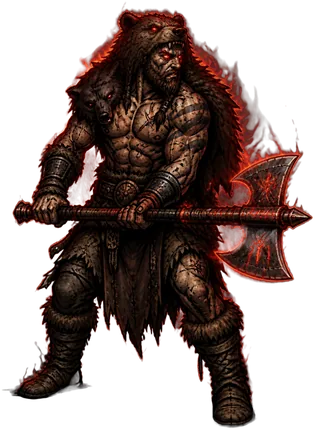
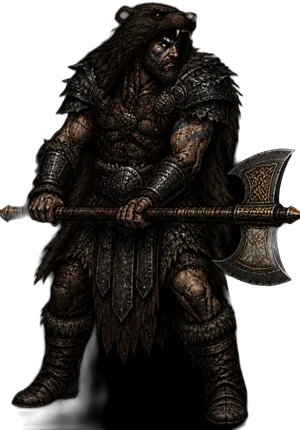
Berserker : armure palier V repeinte
Claude-Session: https://claude.ai/code/session_01XuxscubMSQPeew8BrSfQGu

diff --git a/index.html b/index.html
@@ -211,7 +211,7 @@ p{margin:6px 0;line-height:1.45}
 <div id="boot"><div class="bootin"><img src="assets/ui_emblem.webp" alt="" onerror="this.remove()"><h1>Couronne de Cendres</h1><div class="bootbar"><i></i></div><div class="boottxt">Les braises s'allument…</div><button class="btn ghost sm" id="bootskip" style="display:none">Continuer sans attendre</button></div></div>
 <div id="toasts" aria-live="polite"></div>
 <script>window.CC_SW = 1;</script><script>
-window.ART_LIST=["bg_abime","bg_bastion","bg_bastion2","bg_bourg","bg_catacombes","bg_citadelle","bg_foret","bg_marais","bg_terres","bg_titre","bld_academie","bld_chapelle","bld_fonderie","bld_forge","bld_menagerie","bld_porte","bld_taverne","hero_arbaletriere_chasseresse","hero_arbaletriere_t1","hero_arbaletriere_t2","hero_arbaletriere_t3","hero_arbaletriere_t4","hero_arbaletriere_t5","hero_arbaletriere_tireuse_elite","hero_berserker_chef_guerre","hero_berserker_ecorcheur","hero_berserker_t1","hero_berserker_t2","hero_berserker_t3","hero_berserker_t4","hero_berserker_t5","hero_chasseur_sorcieres_purificateur","hero_chasseur_sorcieres_t1","hero_chasseur_sorcieres_t2","hero_chasseur_sorcieres_t3","hero_chasseur_sorcieres_t4","hero_chasseur_sorcieres_t5","hero_chasseur_sorcieres_traqueur","hero_exorciste_confesseur","hero_exorciste_penitent","hero_exorciste_t1","hero_exorciste_t2","hero_exorciste_t3","hero_exorciste_t4","hero_exorciste_t5","hero_gardien_runes_forge_tonnerre","hero_gardien_runes_t1","hero_gardien_runes_t2","hero_gardien_runes_t3","hero_gardien_runes_t4","hero_gardien_runes_t5","hero_gardien_runes_thane_pierre","hero_hallebardier_garde_roi","hero_hallebardier_lansquenet","hero_hallebardier_t1","hero_hallebardier_t2","hero_hallebardier_t3","hero_hallebardier_t4","hero_hallebardier_t5","hero_medecin_peste_apothicaire","hero_medecin_peste_chirurgien","hero_medecin_peste_t1","hero_medecin_peste_t2","hero_medecin_peste_t3","hero_medecin_peste_t4","hero_medecin_peste_t5","hero_menestrel_chantre","hero_menestrel_heraut","hero_menestrel_t1","hero_menestrel_t2","hero_menestrel_t3","hero_menestrel_t4","hero_menestrel_t5","hero_necromancien_liche","hero_necromancien_maitre_tombes","hero_necromancien_t1","hero_necromancien_t2","hero_necromancien_t3","hero_necromancien_t4","hero_necromancien_t5","hero_ombre_assassin","hero_ombre_ombre_sang","hero_ombre_t1","hero_ombre_t2","hero_ombre_t3","hero_ombre_t4","hero_ombre_t5","hero_pretresse_martyre","hero_pretresse_sainte","hero_pretresse_t1","hero_pretresse_t2","hero_pretresse_t3","hero_pretresse_t4","hero_pretresse_t5","hero_pyromancien_archimage","hero_pyromancien_demoniste","hero_pyromancien_t1","hero_pyromancien_t2","hero_pyromancien_t3","hero_pyromancien_t4","hero_pyromancien_t5","hero_revenant_seigneur_sang","hero_revenant_spectre","hero_revenant_t1","hero_revenant_t2","hero_revenant_t3","hero_revenant_t4","hero_revenant_t5","hero_sorciere_druidesse","hero_sorciere_sorciere_noire","hero_sorciere_t1","hero_sorciere_t2","hero_sorciere_t3","hero_sorciere_t4","hero_sorciere_t5","hero_templier_bastion","hero_templier_inquisiteur","hero_templier_t1","hero_templier_t2","hero_templier_t3","hero_templier_t4","hero_templier_t5","map_boss","map_camp","map_combat","map_elite","map_event","map_shop","map_treasure","mon_abbe","mon_alpha","mon_araignee","mon_archer","mon_archer_os","mon_archonte_cendres","mon_boucher","mon_bourreau","mon_brigand","mon_cardinal","mon_charognard","mon_chevalier_dechu","mon_chevalier_os","mon_chevaucheur_calcine","mon_chien_cendre","mon_colosse_braise","mon_crapaud","mon_cultiste","mon_devoreur_lumiere","mon_diablotin","mon_docteur","mon_dryade","mon_follet","mon_gargouille","mon_golem","mon_goule","mon_hallebardier_os","mon_horreur","mon_hydre","mon_inquisiteur","mon_liche","mon_loup","mon_matrone_os","mon_mere_noyes","mon_mere_ronces","mon_moine_flagellant","mon_necrophage","mon_noye","mon_oeil","mon_ogre","mon_pecheur","mon_pendu","mon_penitent_ardent","mon_pestifere","mon_pretre_suie","mon_prieur","mon_profond","mon_rat","mon_reine_sabbat","mon_roi","mon_sangsue","mon_sans_nom","mon_sans_visage","mon_sentinelle_obsidienne","mon_sorciere_marais","mon_spectre","mon_squelette","mon_thuriferaire","pet_araignee","pet_araignee_evo","pet_belette","pet_cerf","pet_cerf_evo","pet_chat_noir","pet_chat_noir_evo","pet_chauve_souris","pet_chauve_souris_evo","pet_chouette","pet_chouette_evo","pet_corbeau","pet_corbeau_evo","pet_crapaud","pet_crapaud_evo","pet_drake","pet_drake_evo","pet_feu_follet","pet_feu_follet_evo","pet_gargouille","pet_gargouille_evo","pet_griffon","pet_griffon_evo","pet_loup","pet_loup_evo","pet_molosse","pet_molosse_evo","pet_ours","pet_ours_evo","pet_renard","pet_renard_evo","pet_salamandre","pet_salamandre_evo","pet_sanglier","pet_sanglier_evo","pet_vipere","pet_vipere_evo","tr_amulette_sel","tr_bague_fer","tr_cape_brume","tr_chapelet","tr_cloche_morte","tr_coeur_braise","tr_coeur_roi","tr_couronne_epines","tr_crane_saint","tr_croc_vampire","tr_dent_loup","tr_ecu_brise","tr_fiole_sang","tr_fragment_couronne","tr_gant_bourreau","tr_griffe_ombre","tr_herbe_rare","tr_oeil_abime","tr_oeil_verre","tr_phylactere","tr_pierre_ame","tr_plume_corbeau","tr_relique_aube","tr_sablier","tr_sceau_rouge","ui_aim","ui_amulet","ui_anvil","ui_armor","ui_axe","ui_back","ui_bag","ui_banner","ui_bark","ui_bell","ui_bird","ui_bless","ui_blood","ui_bolt","ui_bones","ui_book","ui_boom","ui_camp","ui_castle","ui_chain","ui_chapel","ui_charge","ui_chest","ui_claw","ui_cleanse","ui_cloak","ui_coin","ui_crown","ui_cup","ui_curse","ui_dagger","ui_daily","ui_dice","ui_drain","ui_ember","ui_emblem","ui_essence","ui_eye","ui_fang","ui_fear","ui_feather","ui_fire","ui_flames","ui_flare","ui_flask","ui_flee","ui_frost","ui_furnace","ui_gear","ui_gem","ui_ghost","ui_glove","ui_guard","ui_hammer","ui_hand","ui_heal","ui_heart","ui_helm","ui_herb","ui_horn","ui_hourglass","ui_iron","ui_knives","ui_link","ui_lock","ui_lute","ui_mace","ui_map","ui_mark","ui_mask","ui_meteor","ui_moon","ui_music","ui_note","ui_pact","ui_paw","ui_pawn","ui_pierce","ui_pillar","ui_potion","ui_quest","ui_rage","ui_rain","ui_ray","ui_ring","ui_riposte","ui_root","ui_rosary","ui_run","ui_sanct","ui_scroll","ui_scythe","ui_seal","ui_shard","ui_shield","ui_shroud","ui_skull","ui_skullc","ui_smoke","ui_sound","ui_star","ui_stun","ui_sun","ui_sword","ui_swords","ui_tavern","ui_thorn","ui_torch","ui_trap","ui_tree","ui_trophy","ui_vial","ui_wall","ui_weapon","ui_whirl","ui_wind","wpn_arbalete","wpn_baton","wpn_croix","wpn_dagues","wpn_encensoir","wpn_espadon","wpn_faucille","wpn_faux","wpn_grimoire","wpn_hache","wpn_hallebarde","wpn_luth","wpn_marteau","wpn_masse","wpn_rapiere"];window.ART_META={"hero_arbaletriere_chasseresse": 0.019,"hero_arbaletriere_t1": 0.009,"hero_arbaletriere_t2": 0.009,"hero_arbaletriere_t3": 0.007,"hero_arbaletriere_t4": 0.007,"hero_arbaletriere_t5": 0.009,"hero_arbaletriere_tireuse_elite": 0.007,"hero_berserker_chef_guerre": 0.03,"hero_berserker_ecorcheur": 0.007,"hero_berserker_t1": 0.014,"hero_berserker_t2": 0.009,"hero_berserker_t3": 0.009,"hero_berserker_t4": 0.007,"hero_berserker_t5": 0.021,"hero_chasseur_sorcieres_purificateur": 0.056,"hero_chasseur_sorcieres_t1": 0.007,"hero_chasseur_sorcieres_t2": 0.009,"hero_chasseur_sorcieres_t3": 0.007,"hero_chasseur_sorcieres_t4": 0.007,"hero_chasseur_sorcieres_t5": 0.012,"hero_chasseur_sorcieres_traqueur": 0.007,"hero_exorciste_confesseur": 0.005,"hero_exorciste_penitent": 0.028,"hero_exorciste_t1": 0.04,"hero_exorciste_t2": 0.065,"hero_exorciste_t3": 0.074,"hero_exorciste_t4": 0.072,"hero_exorciste_t5": 0.03,"hero_gardien_runes_forge_tonnerre": 0.023,"hero_gardien_runes_t1": 0.014,"hero_gardien_runes_t2": 0.012,"hero_gardien_runes_t3": 0.014,"hero_gardien_runes_t4": 0.014,"hero_gardien_runes_t5": 0.035,"hero_gardien_runes_thane_pierre": 0.014,"hero_hallebardier_garde_roi": 0.016,"hero_hallebardier_lansquenet": 0.028,"hero_hallebardier_t1": 0.012,"hero_hallebardier_t2": 0.012,"hero_hallebardier_t3": 0.012,"hero_hallebardier_t4": 0.021,"hero_hallebardier_t5": 0.014,"hero_medecin_peste_apothicaire": 0.005,"hero_medecin_peste_chirurgien": 0.005,"hero_medecin_peste_t1": 0.007,"hero_medecin_peste_t2": 0.005,"hero_medecin_peste_t3": 0.005,"hero_medecin_peste_t4": 0.005,"hero_medecin_peste_t5": 0.005,"hero_menestrel_chantre": 0.007,"hero_menestrel_heraut": 0.13,"hero_menestrel_t1": 0.007,"hero_menestrel_t2": 0.005,"hero_menestrel_t3": 0.007,"hero_menestrel_t4": 0.012,"hero_menestrel_t5": 0.007,"hero_necromancien_liche": 0.014,"hero_necromancien_maitre_tombes": 0.079,"hero_necromancien_t1": 0.009,"hero_necromancien_t2": 0.016,"hero_necromancien_t3": 0.016,"hero_necromancien_t4": 0.016,"hero_necromancien_t5": 0.012,"hero_ombre_assassin": 0.007,"hero_ombre_ombre_sang": 0.009,"hero_ombre_t1": 0.009,"hero_ombre_t2": 0.009,"hero_ombre_t3": 0.009,"hero_ombre_t4": 0.009,"hero_ombre_t5": 0.014,"hero_pretresse_martyre": 0.102,"hero_pretresse_sainte": 0.07,"hero_pretresse_t1": 0.079,"hero_pretresse_t2": 0.1,"hero_pretresse_t3": 0.121,"hero_pretresse_t4": 0.091,"hero_pretresse_t5": 0.06,"hero_pyromancien_archimage": 0.007,"hero_pyromancien_demoniste": 0.051,"hero_pyromancien_t1": 0.009,"hero_pyromancien_t2": 0.007,"hero_pyromancien_t3": 0.007,"hero_pyromancien_t4": 0.007,"hero_pyromancien_t5": 0.026,"hero_revenant_seigneur_sang": 0.151,"hero_revenant_spectre": 0.114,"hero_revenant_t1": 0.109,"hero_revenant_t2": 0.151,"hero_revenant_t3": 0.156,"hero_revenant_t4": 0.149,"hero_revenant_t5": 0.095,"hero_sorciere_druidesse": 0.051,"hero_sorciere_sorciere_noire": 0.028,"hero_sorciere_t1": 0.007,"hero_sorciere_t2": 0.014,"hero_sorciere_t3": 0.012,"hero_sorciere_t4": 0.009,"hero_sorciere_t5": 0.019,"hero_templier_bastion": 0.021,"hero_templier_inquisiteur": 0.007,"hero_templier_t1": 0.007,"hero_templier_t2": 0.007,"hero_templier_t3": 0.005,"hero_templier_t4": 0.026,"hero_templier_t5": 0.009};window.SFX_LIST=["amb_abime","amb_bastion","amb_bourg","amb_catacombes","amb_citadelle","amb_foret","amb_marais","fx_bell","fx_coin","fx_crit","fx_dark","fx_die","fx_door","fx_fire","fx_forge","fx_heal","fx_heavy","fx_hit","fx_holy","fx_miss","fx_open","fx_shoot","fx_slash","fx_step"];window.ART_FLIP=["mon_archer_os","mon_moine_flagellant","mon_spectre","hero_ombre_assassin","hero_ombre_ombre_sang","mon_cardinal"];
+window.ART_LIST=["bg_abime","bg_bastion","bg_bastion2","bg_bourg","bg_catacombes","bg_citadelle","bg_foret","bg_marais","bg_terres","bg_titre","bld_academie","bld_chapelle","bld_fonderie","bld_forge","bld_menagerie","bld_porte","bld_taverne","hero_arbaletriere_chasseresse","hero_arbaletriere_t1","hero_arbaletriere_t2","hero_arbaletriere_t3","hero_arbaletriere_t4","hero_arbaletriere_t5","hero_arbaletriere_tireuse_elite","hero_berserker_chef_guerre","hero_berserker_ecorcheur","hero_berserker_t1","hero_berserker_t2","hero_berserker_t3","hero_berserker_t4","hero_berserker_t5","hero_chasseur_sorcieres_purificateur","hero_chasseur_sorcieres_t1","hero_chasseur_sorcieres_t2","hero_chasseur_sorcieres_t3","hero_chasseur_sorcieres_t4","hero_chasseur_sorcieres_t5","hero_chasseur_sorcieres_traqueur","hero_exorciste_confesseur","hero_exorciste_penitent","hero_exorciste_t1","hero_exorciste_t2","hero_exorciste_t3","hero_exorciste_t4","hero_exorciste_t5","hero_gardien_runes_forge_tonnerre","hero_gardien_runes_t1","hero_gardien_runes_t2","hero_gardien_runes_t3","hero_gardien_runes_t4","hero_gardien_runes_t5","hero_gardien_runes_thane_pierre","hero_hallebardier_garde_roi","hero_hallebardier_lansquenet","hero_hallebardier_t1","hero_hallebardier_t2","hero_hallebardier_t3","hero_hallebardier_t4","hero_hallebardier_t5","hero_medecin_peste_apothicaire","hero_medecin_peste_chirurgien","hero_medecin_peste_t1","hero_medecin_peste_t2","hero_medecin_peste_t3","hero_medecin_peste_t4","hero_medecin_peste_t5","hero_menestrel_chantre","hero_menestrel_heraut","hero_menestrel_t1","hero_menestrel_t2","hero_menestrel_t3","hero_menestrel_t4","hero_menestrel_t5","hero_necromancien_liche","hero_necromancien_maitre_tombes","hero_necromancien_t1","hero_necromancien_t2","hero_necromancien_t3","hero_necromancien_t4","hero_necromancien_t5","hero_ombre_assassin","hero_ombre_ombre_sang","hero_ombre_t1","hero_ombre_t2","hero_ombre_t3","hero_ombre_t4","hero_ombre_t5","hero_pretresse_martyre","hero_pretresse_sainte","hero_pretresse_t1","hero_pretresse_t2","hero_pretresse_t3","hero_pretresse_t4","hero_pretresse_t5","hero_pyromancien_archimage","hero_pyromancien_demoniste","hero_pyromancien_t1","hero_pyromancien_t2","hero_pyromancien_t3","hero_pyromancien_t4","hero_pyromancien_t5","hero_revenant_seigneur_sang","hero_revenant_spectre","hero_revenant_t1","hero_revenant_t2","hero_revenant_t3","hero_revenant_t4","hero_revenant_t5","hero_sorciere_druidesse","hero_sorciere_sorciere_noire","hero_sorciere_t1","hero_sorciere_t2","hero_sorciere_t3","hero_sorciere_t4","hero_sorciere_t5","hero_templier_bastion","hero_templier_inquisiteur","hero_templier_t1","hero_templier_t2","hero_templier_t3","hero_templier_t4","hero_templier_t5","map_boss","map_camp","map_combat","map_elite","map_event","map_shop","map_treasure","mon_abbe","mon_alpha","mon_araignee","mon_archer","mon_archer_os","mon_archonte_cendres","mon_boucher","mon_bourreau","mon_brigand","mon_cardinal","mon_charognard","mon_chevalier_dechu","mon_chevalier_os","mon_chevaucheur_calcine","mon_chien_cendre","mon_colosse_braise","mon_crapaud","mon_cultiste","mon_devoreur_lumiere","mon_diablotin","mon_docteur","mon_dryade","mon_follet","mon_gargouille","mon_golem","mon_goule","mon_hallebardier_os","mon_horreur","mon_hydre","mon_inquisiteur","mon_liche","mon_loup","mon_matrone_os","mon_mere_noyes","mon_mere_ronces","mon_moine_flagellant","mon_necrophage","mon_noye","mon_oeil","mon_ogre","mon_pecheur","mon_pendu","mon_penitent_ardent","mon_pestifere","mon_pretre_suie","mon_prieur","mon_profond","mon_rat","mon_reine_sabbat","mon_roi","mon_sangsue","mon_sans_nom","mon_sans_visage","mon_sentinelle_obsidienne","mon_sorciere_marais","mon_spectre","mon_squelette","mon_thuriferaire","pet_araignee","pet_araignee_evo","pet_belette","pet_cerf","pet_cerf_evo","pet_chat_noir","pet_chat_noir_evo","pet_chauve_souris","pet_chauve_souris_evo","pet_chouette","pet_chouette_evo","pet_corbeau","pet_corbeau_evo","pet_crapaud","pet_crapaud_evo","pet_drake","pet_drake_evo","pet_feu_follet","pet_feu_follet_evo","pet_gargouille","pet_gargouille_evo","pet_griffon","pet_griffon_evo","pet_loup","pet_loup_evo","pet_molosse","pet_molosse_evo","pet_ours","pet_ours_evo","pet_renard","pet_renard_evo","pet_salamandre","pet_salamandre_evo","pet_sanglier","pet_sanglier_evo","pet_vipere","pet_vipere_evo","tr_amulette_sel","tr_bague_fer","tr_cape_brume","tr_chapelet","tr_cloche_morte","tr_coeur_braise","tr_coeur_roi","tr_couronne_epines","tr_crane_saint","tr_croc_vampire","tr_dent_loup","tr_ecu_brise","tr_fiole_sang","tr_fragment_couronne","tr_gant_bourreau","tr_griffe_ombre","tr_herbe_rare","tr_oeil_abime","tr_oeil_verre","tr_phylactere","tr_pierre_ame","tr_plume_corbeau","tr_relique_aube","tr_sablier","tr_sceau_rouge","ui_aim","ui_amulet","ui_anvil","ui_armor","ui_axe","ui_back","ui_bag","ui_banner","ui_bark","ui_bell","ui_bird","ui_bless","ui_blood","ui_bolt","ui_bones","ui_book","ui_boom","ui_camp","ui_castle","ui_chain","ui_chapel","ui_charge","ui_chest","ui_claw","ui_cleanse","ui_cloak","ui_coin","ui_crown","ui_cup","ui_curse","ui_dagger","ui_daily","ui_dice","ui_drain","ui_ember","ui_emblem","ui_essence","ui_eye","ui_fang","ui_fear","ui_feather","ui_fire","ui_flames","ui_flare","ui_flask","ui_flee","ui_frost","ui_furnace","ui_gear","ui_gem","ui_ghost","ui_glove","ui_guard","ui_hammer","ui_hand","ui_heal","ui_heart","ui_helm","ui_herb","ui_horn","ui_hourglass","ui_iron","ui_knives","ui_link","ui_lock","ui_lute","ui_mace","ui_map","ui_mark","ui_mask","ui_meteor","ui_moon","ui_music","ui_note","ui_pact","ui_paw","ui_pawn","ui_pierce","ui_pillar","ui_potion","ui_quest","ui_rage","ui_rain","ui_ray","ui_ring","ui_riposte","ui_root","ui_rosary","ui_run","ui_sanct","ui_scroll","ui_scythe","ui_seal","ui_shard","ui_shield","ui_shroud","ui_skull","ui_skullc","ui_smoke","ui_sound","ui_star","ui_stun","ui_sun","ui_sword","ui_swords","ui_tavern","ui_thorn","ui_torch","ui_trap","ui_tree","ui_trophy","ui_vial","ui_wall","ui_weapon","ui_whirl","ui_wind","wpn_arbalete","wpn_baton","wpn_croix","wpn_dagues","wpn_encensoir","wpn_espadon","wpn_faucille","wpn_faux","wpn_grimoire","wpn_hache","wpn_hallebarde","wpn_luth","wpn_marteau","wpn_masse","wpn_rapiere"];window.ART_META={"hero_arbaletriere_chasseresse": 0.019,"hero_arbaletriere_t1": 0.009,"hero_arbaletriere_t2": 0.009,"hero_arbaletriere_t3": 0.007,"hero_arbaletriere_t4": 0.007,"hero_arbaletriere_t5": 0.009,"hero_arbaletriere_tireuse_elite": 0.007,"hero_berserker_chef_guerre": 0.03,"hero_berserker_ecorcheur": 0.007,"hero_berserker_t1": 0.014,"hero_berserker_t2": 0.009,"hero_berserker_t3": 0.009,"hero_berserker_t4": 0.007,"hero_berserker_t5": 0.007,"hero_chasseur_sorcieres_purificateur": 0.056,"hero_chasseur_sorcieres_t1": 0.007,"hero_chasseur_sorcieres_t2": 0.009,"hero_chasseur_sorcieres_t3": 0.007,"hero_chasseur_sorcieres_t4": 0.007,"hero_chasseur_sorcieres_t5": 0.012,"hero_chasseur_sorcieres_traqueur": 0.007,"hero_exorciste_confesseur": 0.005,"hero_exorciste_penitent": 0.028,"hero_exorciste_t1": 0.04,"hero_exorciste_t2": 0.065,"hero_exorciste_t3": 0.074,"hero_exorciste_t4": 0.072,"hero_exorciste_t5": 0.03,"hero_gardien_runes_forge_tonnerre": 0.023,"hero_gardien_runes_t1": 0.014,"hero_gardien_runes_t2": 0.012,"hero_gardien_runes_t3": 0.014,"hero_gardien_runes_t4": 0.014,"hero_gardien_runes_t5": 0.035,"hero_gardien_runes_thane_pierre": 0.014,"hero_hallebardier_garde_roi": 0.016,"hero_hallebardier_lansquenet": 0.028,"hero_hallebardier_t1": 0.012,"hero_hallebardier_t2": 0.012,"hero_hallebardier_t3": 0.012,"hero_hallebardier_t4": 0.021,"hero_hallebardier_t5": 0.014,"hero_medecin_peste_apothicaire": 0.005,"hero_medecin_peste_chirurgien": 0.005,"hero_medecin_peste_t1": 0.007,"hero_medecin_peste_t2": 0.005,"hero_medecin_peste_t3": 0.005,"hero_medecin_peste_t4": 0.005,"hero_medecin_peste_t5": 0.005,"hero_menestrel_chantre": 0.007,"hero_menestrel_heraut": 0.13,"hero_menestrel_t1": 0.007,"hero_menestrel_t2": 0.005,"hero_menestrel_t3": 0.007,"hero_menestrel_t4": 0.012,"hero_menestrel_t5": 0.007,"hero_necromancien_liche": 0.014,"hero_necromancien_maitre_tombes": 0.079,"hero_necromancien_t1": 0.009,"hero_necromancien_t2": 0.016,"hero_necromancien_t3": 0.016,"hero_necromancien_t4": 0.016,"hero_necromancien_t5": 0.012,"hero_ombre_assassin": 0.007,"hero_ombre_ombre_sang": 0.009,"hero_ombre_t1": 0.009,"hero_ombre_t2": 0.009,"hero_ombre_t3": 0.009,"hero_ombre_t4": 0.009,"hero_ombre_t5": 0.014,"hero_pretresse_martyre": 0.102,"hero_pretresse_sainte": 0.07,"hero_pretresse_t1": 0.079,"hero_pretresse_t2": 0.1,"hero_pretresse_t3": 0.121,"hero_pretresse_t4": 0.091,"hero_pretresse_t5": 0.06,"hero_pyromancien_archimage": 0.007,"hero_pyromancien_demoniste": 0.051,"hero_pyromancien_t1": 0.009,"hero_pyromancien_t2": 0.007,"hero_pyromancien_t3": 0.007,"hero_pyromancien_t4": 0.007,"hero_pyromancien_t5": 0.026,"hero_revenant_seigneur_sang": 0.151,"hero_revenant_spectre": 0.114,"hero_revenant_t1": 0.109,"hero_revenant_t2": 0.151,"hero_revenant_t3": 0.156,"hero_revenant_t4": 0.149,"hero_revenant_t5": 0.095,"hero_sorciere_druidesse": 0.051,"hero_sorciere_sorciere_noire": 0.028,"hero_sorciere_t1": 0.007,"hero_sorciere_t2": 0.014,"hero_sorciere_t3": 0.012,"hero_sorciere_t4": 0.009,"hero_sorciere_t5": 0.019,"hero_templier_bastion": 0.021,"hero_templier_inquisiteur": 0.007,"hero_templier_t1": 0.007,"hero_templier_t2": 0.007,"hero_templier_t3": 0.005,"hero_templier_t4": 0.026,"hero_templier_t5": 0.009};window.SFX_LIST=["amb_abime","amb_bastion","amb_bourg","amb_catacombes","amb_citadelle","amb_foret","amb_marais","fx_bell","fx_coin","fx_crit","fx_dark","fx_die","fx_door","fx_fire","fx_forge","fx_heal","fx_heavy","fx_hit","fx_holy","fx_miss","fx_open","fx_shoot","fx_slash","fx_step"];window.ART_FLIP=["mon_archer_os","mon_moine_flagellant","mon_spectre","hero_ombre_assassin","hero_ombre_ombre_sang","mon_cardinal"];
 /* ═══════════════════════ Couronne de Cendres — utilitaires ═══════════════════════ */
 "use strict";
 const HASWIN = typeof window !== "undefined" && typeof document !== "undefined";

diff --git a/sw.js b/sw.js
@@ -1,5 +1,5 @@
 /* Service worker : le jeu fonctionne hors connexion une fois installé. */
-const CACHE = "couronne-cendres-a0c69dc574", ART_CACHE = "couronne-cendres-art-08f8faa9";
+const CACHE = "couronne-cendres-13430d5785", ART_CACHE = "couronne-cendres-art-972726fd";
 const SHELL = ["./", "./index.html", "./manifest.webmanifest", "./icon-192.png", "./icon-512.png", "./icon-maskable-512.png", "./apple-touch-icon.png", "./favicon-64.png"];
 self.addEventListener("install", e => { e.waitUntil(caches.open(CACHE).then(c => c.addAll(SHELL)).then(() => self.skipWaiting())); });
 self.addEventListener("activate", e => { e.waitUntil(caches.keys().then(ks => Promise.all(ks.filter(k => k !== CACHE && k !== ART_CACHE).map(k => caches.delete(k)))).then(() => self.clients.claim())); });
